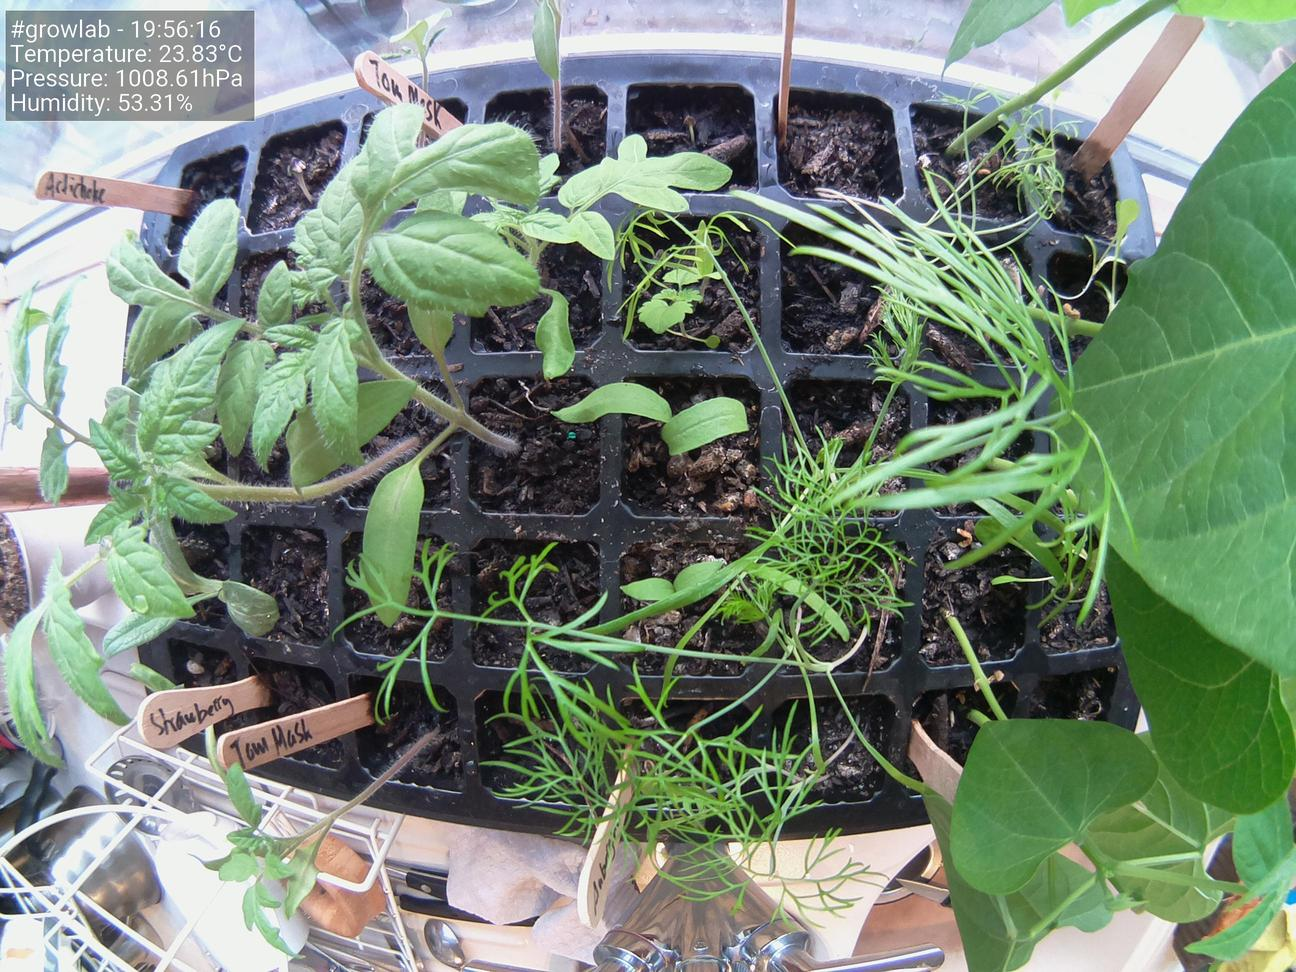
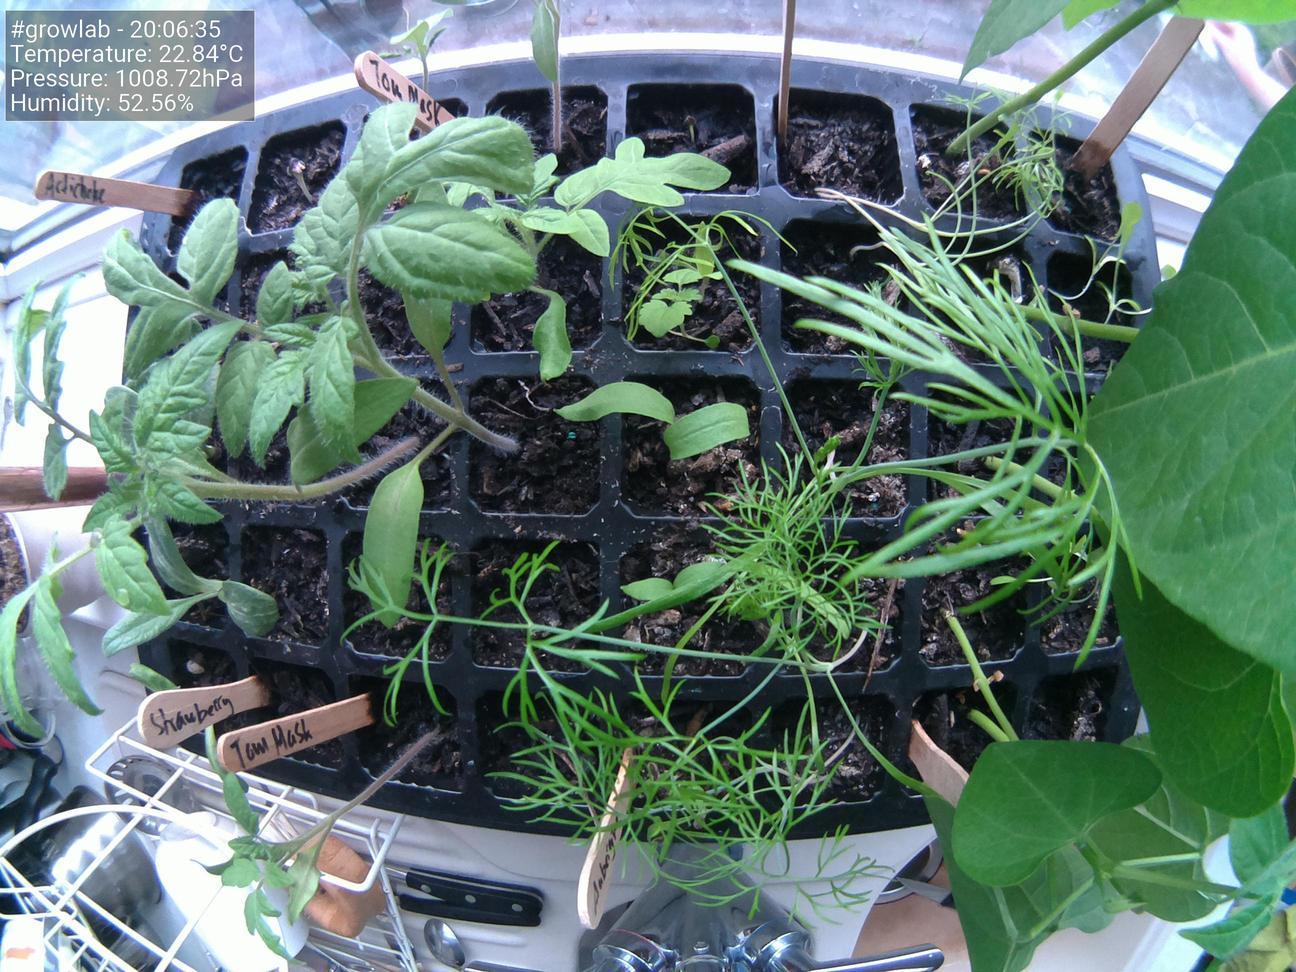
Update images at Wed 28 Apr 20:06:47 BST 2021

diff --git a/docs/index.html b/docs/index.html
@@ -38,19 +38,19 @@
                     <tbody>
                         <tr>
                             <td>Time</td>
-                            <td>19:56:16</td>
+                            <td>20:06:35</td>
                         </tr>
                         <tr>
                             <td>Temperature</td>
-                            <td>23.83°C</td>
+                            <td>22.84°C</td>
                         </tr>
                         <tr>
                             <td>Humidity</td>
-                            <td>53.31%</td>
+                            <td>52.56%</td>
                         </tr>
                         <tr>
                             <td>Pressure</td>
-                            <td>1008.61hPa</td>
+                            <td>1008.72hPa</td>
                         </tr>
                     </tbody>
                 </table>
@@ -58,7 +58,7 @@
 
                 <h5>Latest image</h5>
 		<div style="width: 85%;">
-	                <img class="figure-img img-fluid rounded" src="./preview.jpg?uid=1619636187.1835406">
+	                <img class="figure-img img-fluid rounded" src="./preview.jpg?uid=1619636806.8949678">
 		</div>
             </div>
         </div>
